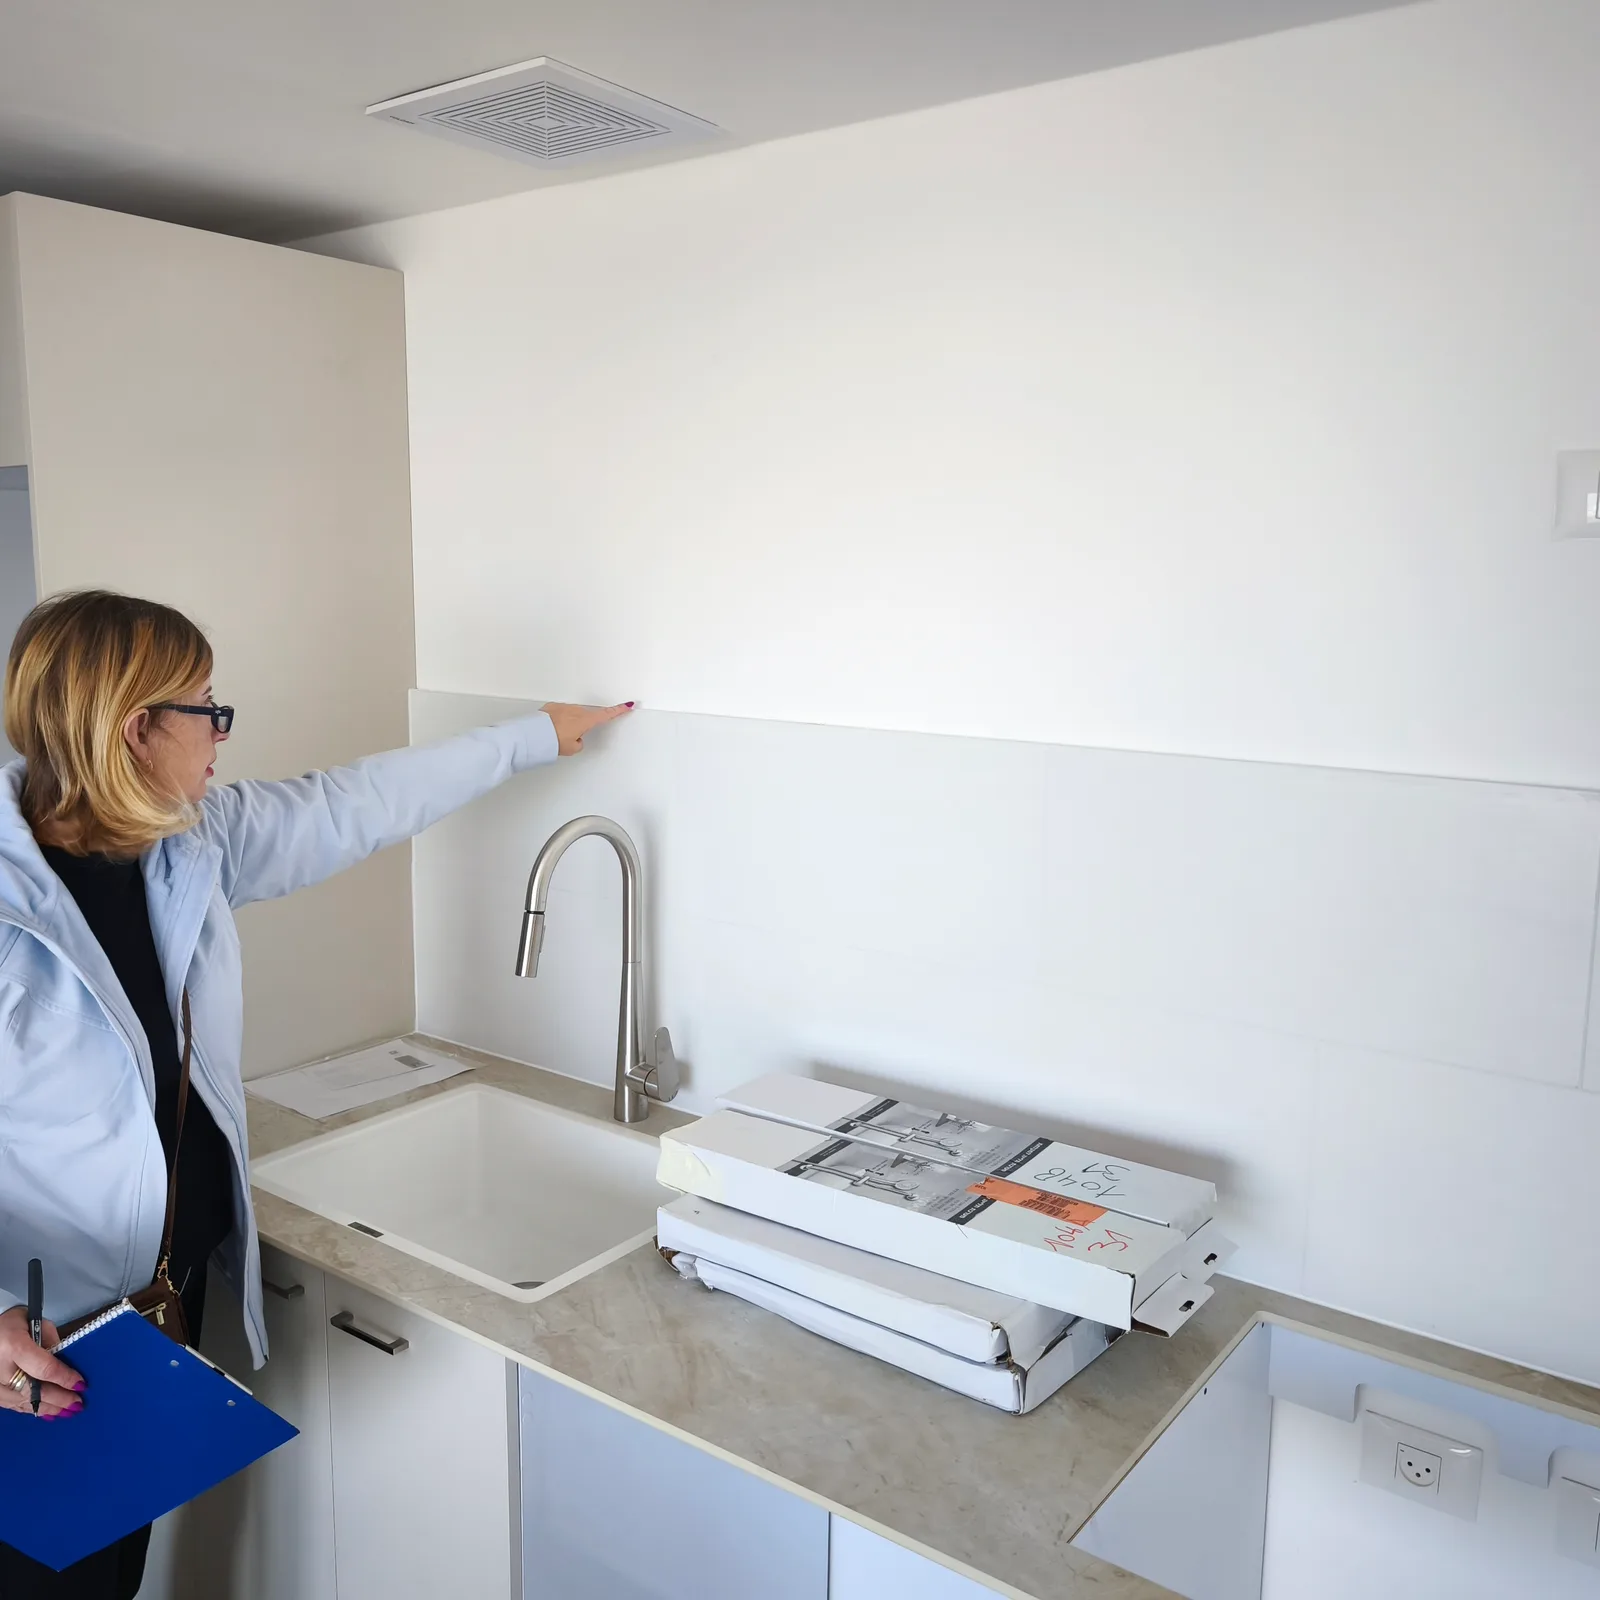
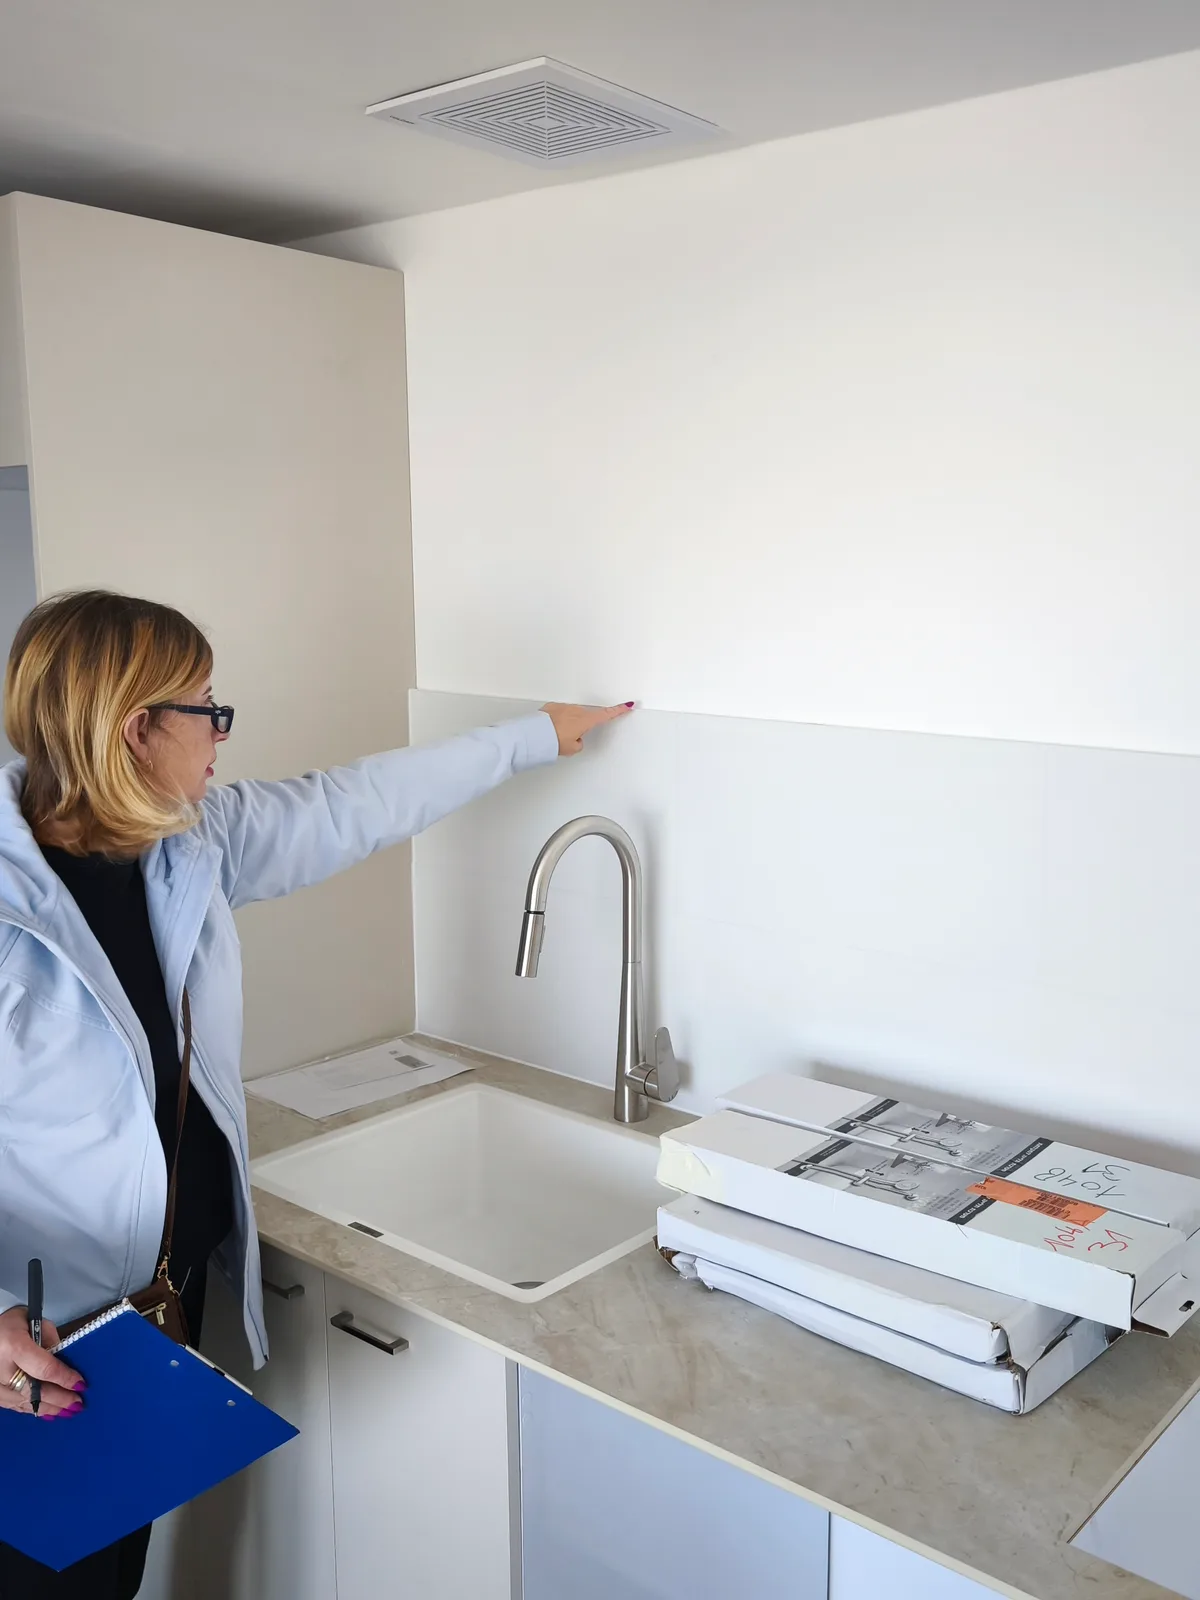
feat: adjust image dimensions for gallery team members

diff --git a/lib/gallery-images.ts b/lib/gallery-images.ts
@@ -71,8 +71,8 @@ export const galleryImages: GalleryImage[] = [
   // ---------- TEAM ----------
   {
     src: "/gallery/guy-mumche-bedek-bayit.webp",
-    width: 1448,
-    height: 1086,
+    width: 1200,
+    height: 1600,
     category: "team",
     title: "גיא - מומחה בדק בית מוסמך",
     alt: "גיא מומחה בדק בית מוסמך עם קסדת מגן בעת ביצוע בדיקת נכס לאיתור ליקויי בנייה בתל אביב, רמת גן, גבעתיים, הרצליה, רעננה, כפר סבא, ראש העין, בת ים, חולון, פתח תקווה, באר שבע ואשקלון",
@@ -103,7 +103,7 @@ export const galleryImages: GalleryImage[] = [
   },
   {
     src: "/gallery/elena-mumchit-bedek-bayit.webp",
-    width: 1600,
+    width: 1200,
     height: 1600,
     category: "team",
     title: "אלנה - מומחית בדק בית מוסמכת",
@@ -136,7 +136,7 @@ export const galleryImages: GalleryImage[] = [
   },
   {
     src: "/gallery/yuval-mumche-bedek-bayit.webp",
-    width: 913,
+    width: 1200,
     height: 1600,
     category: "team",
     title: "יובל - מומחה בדק בית מוסמך",